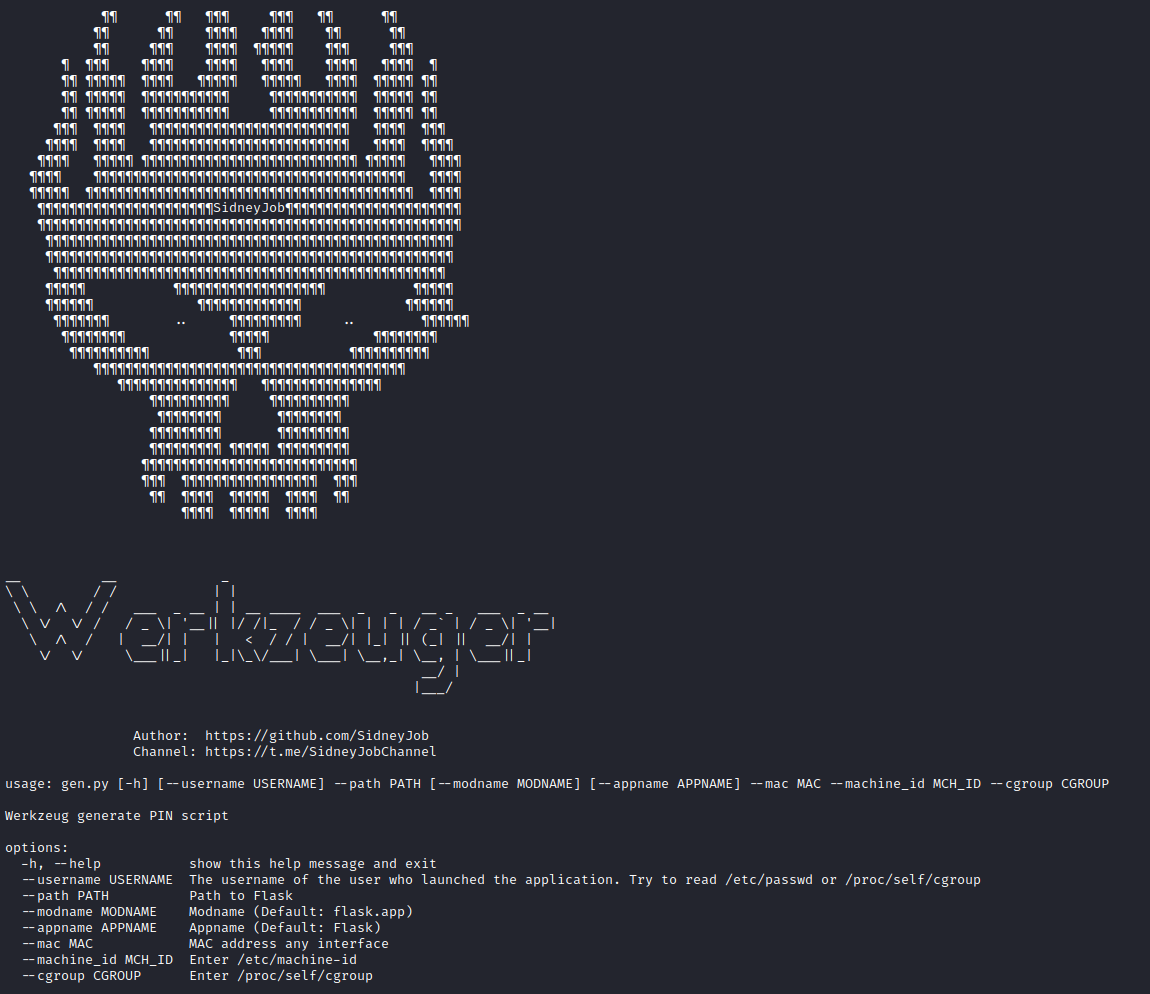
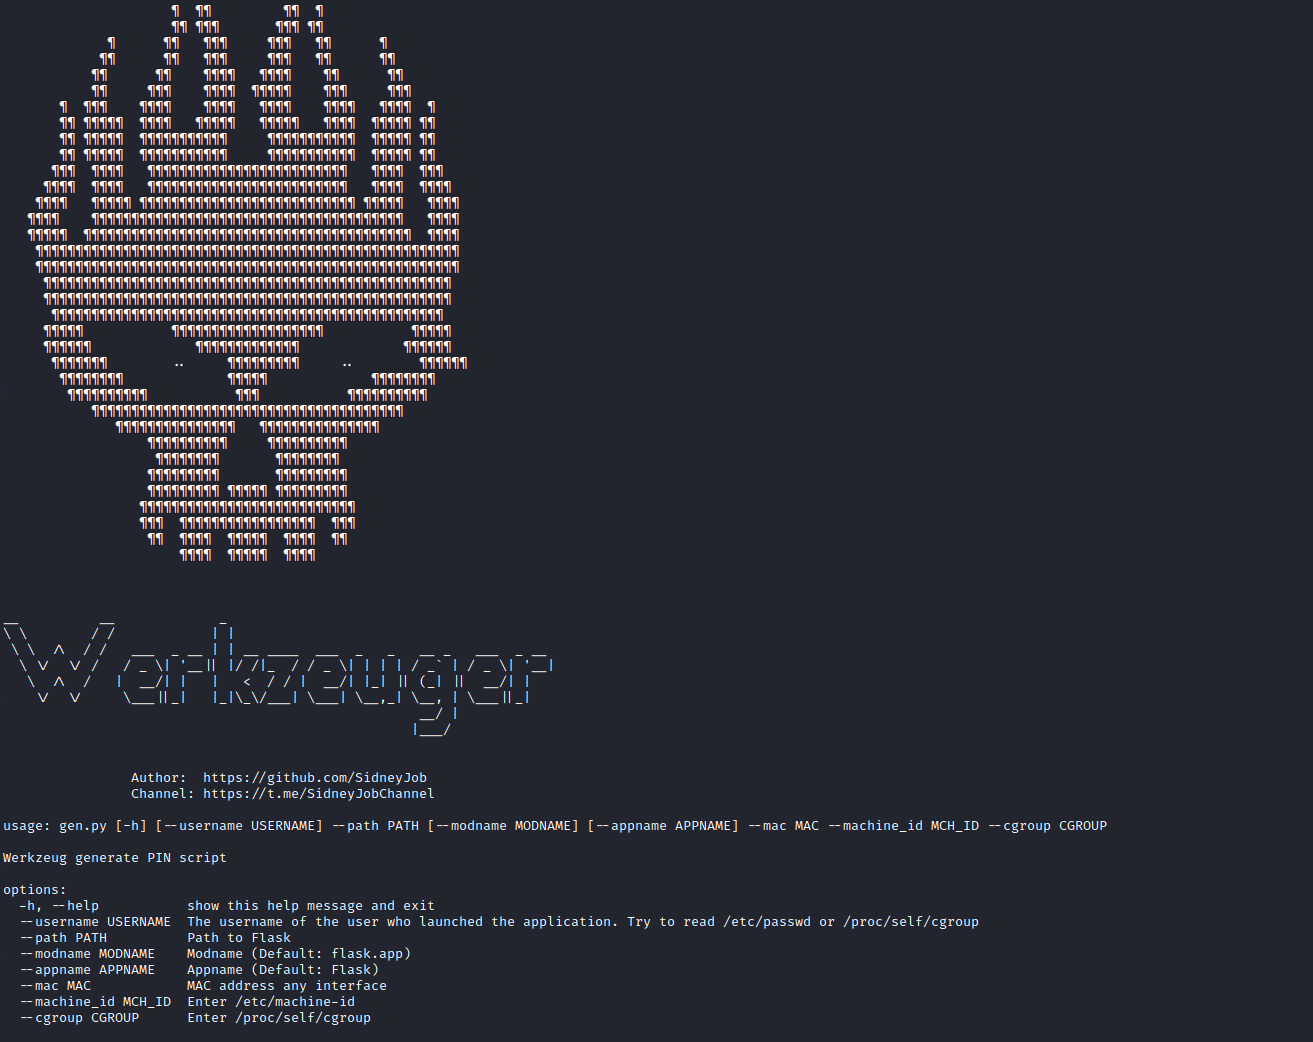
Edit screenshots

diff --git a/gen.py b/gen.py
@@ -100,7 +100,7 @@ def logo():
     ¶¶¶¶   ¶¶¶¶¶ ¶¶¶¶¶¶¶¶¶¶¶¶¶¶¶¶¶¶¶¶¶¶¶¶¶¶¶ ¶¶¶¶¶   ¶¶¶¶    
    ¶¶¶¶    ¶¶¶¶¶¶¶¶¶¶¶¶¶¶¶¶¶¶¶¶¶¶¶¶¶¶¶¶¶¶¶¶¶¶¶¶¶¶¶   ¶¶¶¶    
    ¶¶¶¶¶  ¶¶¶¶¶¶¶¶¶¶¶¶¶¶¶¶¶¶¶¶¶¶¶¶¶¶¶¶¶¶¶¶¶¶¶¶¶¶¶¶¶  ¶¶¶¶    
-    ¶¶¶¶¶¶¶¶¶¶¶¶¶¶¶¶¶¶¶¶¶¶SidneyJob¶¶¶¶¶¶¶¶¶¶¶¶¶¶¶¶¶¶¶¶¶¶    
+    ¶¶¶¶¶¶¶¶¶¶¶¶¶¶¶¶¶¶¶¶¶¶¶¶¶¶¶¶¶¶¶¶¶¶¶¶¶¶¶¶¶¶¶¶¶¶¶¶¶¶¶¶¶    
     ¶¶¶¶¶¶¶¶¶¶¶¶¶¶¶¶¶¶¶¶¶¶¶¶¶¶¶¶¶¶¶¶¶¶¶¶¶¶¶¶¶¶¶¶¶¶¶¶¶¶¶¶¶    
      ¶¶¶¶¶¶¶¶¶¶¶¶¶¶¶¶¶¶¶¶¶¶¶¶¶¶¶¶¶¶¶¶¶¶¶¶¶¶¶¶¶¶¶¶¶¶¶¶¶¶¶     
      ¶¶¶¶¶¶¶¶¶¶¶¶¶¶¶¶¶¶¶¶¶¶¶¶¶¶¶¶¶¶¶¶¶¶¶¶¶¶¶¶¶¶¶¶¶¶¶¶¶¶¶     

diff --git a/README.md b/README.md
@@ -12,7 +12,7 @@ Read more about generating pin in my article: LINK
 4) cgroup
 
 
-**Example options:**
+**Example values for some options:**
 ```
 username: user
 path: /home/user/.local/lib/python3.11/site-packages/flask/app.py
@@ -44,5 +44,5 @@ If you are doing these steps on your machine, then you can use the GET command t
 ![Screenshot](https://github.com/SidneyJob/Generate-flask-pin/blob/main/img/get.png)
 
 
-Follow me on my channel: https://t.me/SidneyJobChannel
-If you have any questions, then write to me by mail SidneyJob13@gmail.com or telegram @SidneyJob
+#### Follow me on my channel: https://t.me/SidneyJobChannel
+#### If you have any questions, then write to me by mail SidneyJob13@gmail.com or telegram @SidneyJob
